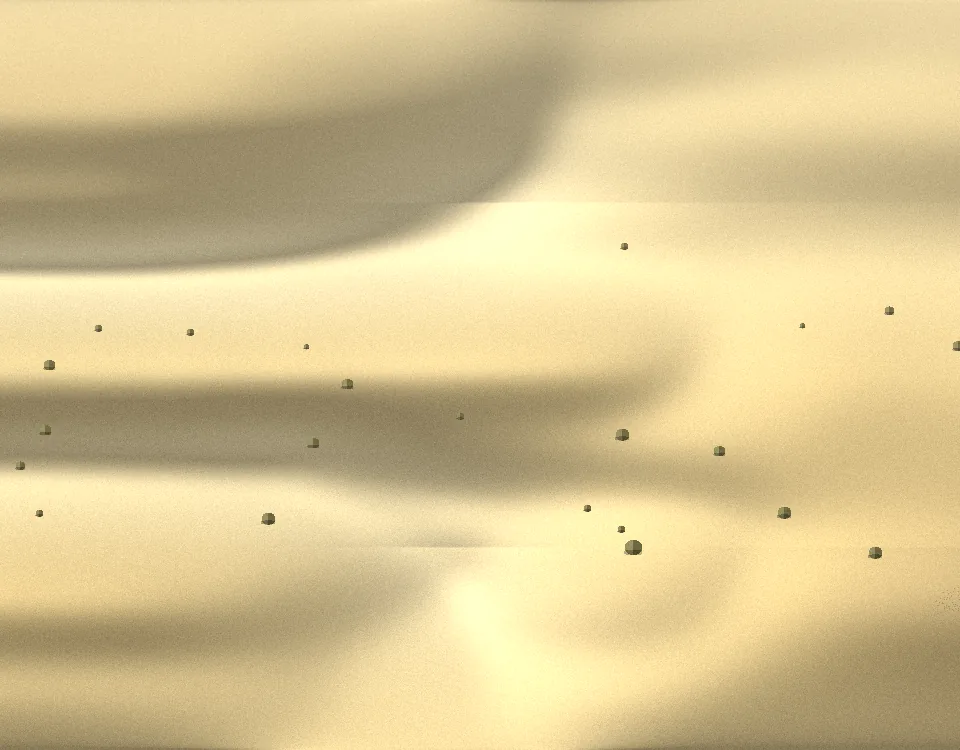
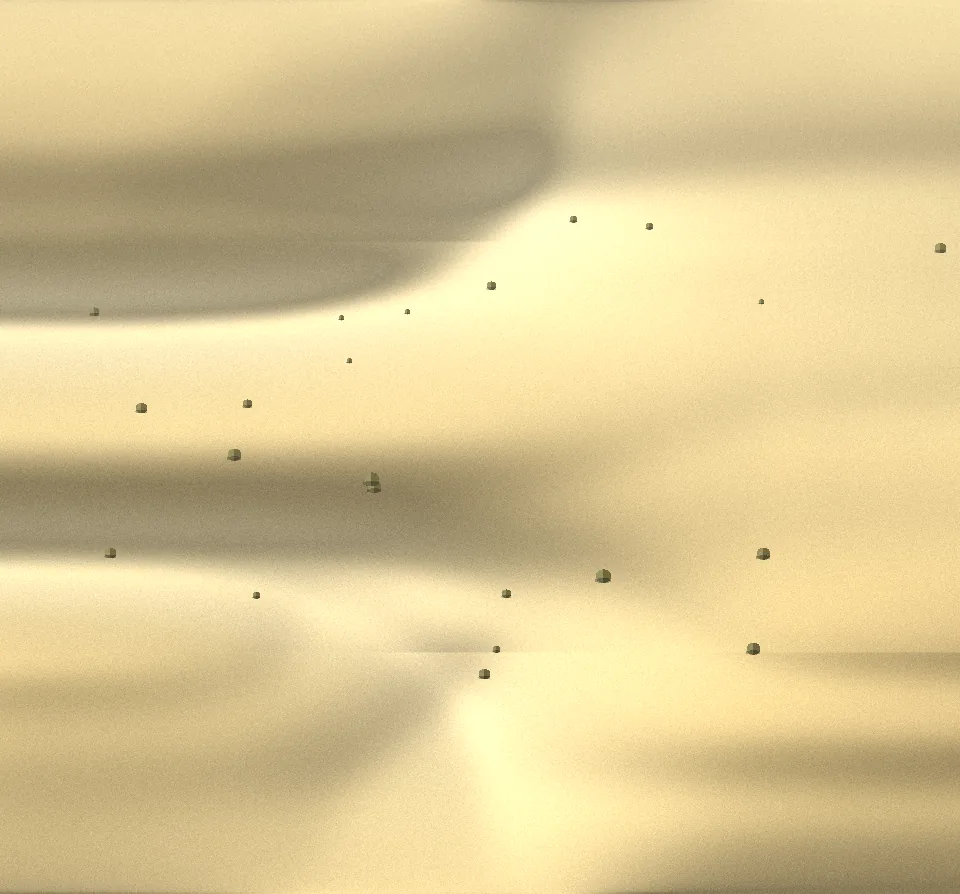
ui: 味方をローマ軍と呼び、兵の数を増やす
味方の呼び名を「我が軍」から「ローマ軍」に変える。凡例・合計・
戦場の趨勢の3か所。「我が軍」だと、東ローマや僭称帝国と戦うときに
どちらもローマ軍になって区別が付かない。

兵を小さく取って頭数を増やし、軍勢に見えるようにした。

- 歩兵 2列 → 3列。間隔も 5.4 → 3.7 に詰めた
- 騎兵 間隔 12 → 7.6。後列を半歩ずらして馬体の重なりでも数が読める
- 弓兵 1列 → 2列。間隔も 9.5 → 6.2 に詰めた

列を増やしたぶん隊の枠を広げ（SLOT_H 30 → 32）、兵数の札を下げた
（ROW_H 14 → 17）。布陣図の高さもそれに合わせて 292 → 298 にし、
地の画を同じ比率（960x894）で書き出し直した。

Claude-Session: https://claude.ai/code/session_01MtfQn3LEdmZoG6v8BdmShd

diff --git a/src/ui/components/BattleMap.tsx b/src/ui/components/BattleMap.tsx
@@ -33,15 +33,16 @@ import { ChiRho } from './UnitSprite';
  */
 
 const W = 320;
-const H = 292;
+const H = 298;
 
 /** 戦列の左端と幅。左翼・中央・右翼を等分に置く */
 const LANE_X: Record<BattleLane, number> = { left: 8, center: 112, right: 216 };
 const LANE_W = 96;
 
 /** 隊ひとつぶんの高さ。兵の列と、その札 */
-const SLOT_H = 30;
-const ROW_H = 14;
+const SLOT_H = 32;
+/** 兵の列の下に札を置く位置。列を増やしたぶん下げてある */
+const ROW_H = 17;
 
 /**
  * 陣の位置。敵は上端から下へ、我が軍は**下端から上へ**積む。
@@ -517,22 +518,22 @@ function Formation({
      * 重装歩兵。楯を並べた密集陣を2列に組み、後列を半歩ずらす。
      * 兜の房と槍の穂先まで描いて、遠目にも槍衾と分かるようにする
      */
-    const step = 5.4;
-    const n = Math.max(3, Math.floor(width / step));
-    for (let row = 0; row < 2; row++) {
+    const step = 3.7;
+    const n = Math.max(4, Math.floor(width / step));
+    for (let row = 0; row < 3; row++) {
       for (let i = 0; i < n; i++) {
-        const x = left + i * step + row * (step / 2) + 1;
-        const yy = y + row * 4.6;
+        const x = left + i * step + (row % 2) * (step / 2) + 0.6;
+        const yy = y + row * 3.4;
         pieces.push(
           <g key={`i${row}-${i}`}>
             {/* 槍。穂先を斜めに立てる */}
-            <path d={`M ${x + 3.6} ${yy + 4} l -0.5 -6`} stroke={dark} strokeWidth={0.55} />
-            <path d={`M ${x + 3.1} ${yy - 2} l 0.5 -1.2 l 0.5 1.2 z`} fill={trim} />
+            <path d={`M ${x + 2.6} ${yy + 3} l -0.4 -5`} stroke={dark} strokeWidth={0.45} />
+            <path d={`M ${x + 2.2} ${yy - 2} l 0.4 -1 l 0.4 1 z`} fill={trim} />
             {/* 兜 */}
-            <path d={`M ${x + 0.6} ${yy} q 1 -1.6 2 0`} fill={dark} />
+            <path d={`M ${x + 0.4} ${yy} q 0.75 -1.3 1.5 0`} fill={dark} />
             {/* 楯（スクトゥム）。縦長の長方形に真ん中の飾り */}
-            <rect x={x} y={yy} width={3.2} height={4.8} rx={0.7} fill={body} stroke={dark} strokeWidth={0.3} />
-            <path d={`M ${x + 1.6} ${yy + 1} l 0 2.8`} stroke={trim} strokeWidth={0.45} />
+            <rect x={x} y={yy} width={2.4} height={4.2} rx={0.6} fill={body} stroke={dark} strokeWidth={0.25} />
+            <path d={`M ${x + 1.2} ${yy + 0.9} l 0 2.4`} stroke={trim} strokeWidth={0.4} />
           </g>,
         );
       }
@@ -542,30 +543,32 @@ function Formation({
      * 騎兵。馬を横向きに描く。胴・首・頭・四肢と尾まで取り、
      * 鞍上に槍を構えた騎手を乗せる
      */
-    const step = 12;
-    const n = Math.max(2, Math.floor(width / step));
+    const step = 7.6;
+    const n = Math.max(3, Math.floor(width / step));
     for (let i = 0; i < n; i++) {
-      const x = left + i * step + 2;
+      const x = left + i * step + 1;
+      // 後列を半歩ずらして、馬体が重なっても数が読めるようにする
+      const yy = y + (i % 2) * 2.6;
       pieces.push(
         <g key={`c${i}`}>
           {/* 馬の胴 */}
           <path
-            d={`M ${x + 0.6} ${y + 6} q 0.6 -2.4 3.6 -2.4 q 3 0 3.8 2.2 l 0 1.4 q -3.6 1 -7.4 0 z`}
+            d={`M ${x + 0.4} ${yy + 6} q 0.4 -1.9 2.6 -1.9 q 2.2 0 2.8 1.7 l 0 1.1 q -2.6 0.8 -5.4 0 z`}
             fill={body}
           />
           {/* 首と頭 */}
-          <path d={`M ${x + 7.6} ${y + 5.6} l 2.1 -2.6 l 1.5 0.5 l -1.2 1.4 l -1.5 1.6 z`} fill={body} />
+          <path d={`M ${x + 5.6} ${yy + 5.7} l 1.6 -2 l 1.1 0.4 l -0.9 1.1 l -1.1 1.2 z`} fill={body} />
           {/* 四肢 */}
-          <g stroke={dark} strokeWidth={0.7} strokeLinecap="round">
-            <path d={`M ${x + 1.8} ${y + 7.4} l -0.4 2.6 M ${x + 3.6} ${y + 7.4} l 0.3 2.6`} />
-            <path d={`M ${x + 6.2} ${y + 7.4} l -0.3 2.6 M ${x + 7.6} ${y + 7.2} l 0.5 2.8`} />
+          <g stroke={dark} strokeWidth={0.55} strokeLinecap="round">
+            <path d={`M ${x + 1.3} ${yy + 7} l -0.3 2 M ${x + 2.7} ${yy + 7} l 0.2 2`} />
+            <path d={`M ${x + 4.6} ${yy + 7} l -0.2 2 M ${x + 5.6} ${yy + 6.9} l 0.4 2.1`} />
           </g>
           {/* 尾 */}
-          <path d={`M ${x + 0.6} ${y + 5.4} q -1.6 0.8 -1.8 3`} fill="none" stroke={dark} strokeWidth={0.7} />
+          <path d={`M ${x + 0.4} ${yy + 5.5} q -1.2 0.6 -1.3 2.2`} fill="none" stroke={dark} strokeWidth={0.55} />
           {/* 騎手。胴と頭、構えた槍 */}
-          <path d={`M ${x + 3.6} ${y + 4.6} l 0 -2.4`} stroke={body} strokeWidth={1.5} strokeLinecap="round" />
-          <circle cx={x + 3.6} cy={y + 1.4} r={1.1} fill={dark} />
-          <path d={`M ${x + 2} ${y + 0.4} l 6 3.4`} stroke={trim} strokeWidth={0.6} />
+          <path d={`M ${x + 2.7} ${yy + 4.8} l 0 -1.9`} stroke={body} strokeWidth={1.2} strokeLinecap="round" />
+          <circle cx={x + 2.7} cy={yy + 2.2} r={0.85} fill={dark} />
+          <path d={`M ${x + 1.4} ${yy + 1.4} l 4.6 2.6`} stroke={trim} strokeWidth={0.5} />
         </g>,
       );
     }
@@ -574,31 +577,33 @@ function Formation({
      * 弓兵。散らした散兵線。弓をはっきり C 字に描き、
      * 弦と矢を添えて「射る姿」に見せる
      */
-    const step = 9.5;
-    const n = Math.max(2, Math.floor(width / step));
-    for (let i = 0; i < n; i++) {
-      const x = left + i * step + 2;
-      const yy = y + (i % 2) * 2.4 + 1;
-      pieces.push(
-        <g key={`a${i}`}>
-          {/* 弓と弦 */}
-          <path d={`M ${x + 4.6} ${yy - 0.6} q 2.6 3 0 6`} fill="none" stroke={trim} strokeWidth={0.75} />
-          <path d={`M ${x + 4.6} ${yy - 0.6} l 0 6`} stroke={trim} strokeWidth={0.35} />
-          {/* 矢 */}
-          <path d={`M ${x + 2.6} ${yy + 2.4} l 3.6 0`} stroke={dark} strokeWidth={0.45} />
-          {/* 射手。頭・胴・踏み出した脚 */}
-          <circle cx={x + 2} cy={yy} r={1.15} fill={dark} />
-          <path d={`M ${x + 2} ${yy + 1.2} l 0 3`} stroke={body} strokeWidth={1.6} strokeLinecap="round" />
-          <path d={`M ${x + 2} ${yy + 4.2} l -1.2 2 M ${x + 2} ${yy + 4.2} l 1.4 1.8`} stroke={dark} strokeWidth={0.6} />
-        </g>,
-      );
+    const step = 6.2;
+    const n = Math.max(3, Math.floor(width / step));
+    for (let row = 0; row < 2; row++) {
+      for (let i = 0; i < n; i++) {
+        const x = left + i * step + (row % 2) * (step / 2) + 0.8;
+        const yy = y + row * 4.6 + 1;
+        pieces.push(
+          <g key={`a${row}-${i}`}>
+            {/* 弓と弦 */}
+            <path d={`M ${x + 3.4} ${yy - 0.4} q 2 2.3 0 4.6`} fill="none" stroke={trim} strokeWidth={0.6} />
+            <path d={`M ${x + 3.4} ${yy - 0.4} l 0 4.6`} stroke={trim} strokeWidth={0.3} />
+            {/* 矢 */}
+            <path d={`M ${x + 1.9} ${yy + 1.9} l 2.8 0`} stroke={dark} strokeWidth={0.38} />
+            {/* 射手。頭・胴・踏み出した脚 */}
+            <circle cx={x + 1.5} cy={yy} r={0.9} fill={dark} />
+            <path d={`M ${x + 1.5} ${yy + 0.9} l 0 2.3`} stroke={body} strokeWidth={1.25} strokeLinecap="round" />
+            <path d={`M ${x + 1.5} ${yy + 3.2} l -0.9 1.5 M ${x + 1.5} ${yy + 3.2} l 1.1 1.4`} stroke={dark} strokeWidth={0.5} />
+          </g>,
+        );
+      }
     }
   }
 
   return (
     <g opacity={faded ? 0.5 : 1}>
       {/* 足元の影。地面から浮いて見せない */}
-      <ellipse cx={cx} cy={y + 11} rx={width / 2} ry={2.2} fill="rgba(35,25,10,0.24)" />
+      <ellipse cx={cx} cy={y + 12} rx={width / 2} ry={2.2} fill="rgba(35,25,10,0.24)" />
       {pieces}
     </g>
   );

diff --git a/src/ui/components/BattleScreen.tsx b/src/ui/components/BattleScreen.tsx
@@ -139,13 +139,13 @@ export function BattleScreen({
           <div className="mt-1 text-[10px] flex justify-between" style={{ color: 'var(--ink-soft)' }}>
             <span className="flex items-center gap-1">
               <i className="inline-block w-2 h-2 rounded-sm" style={{ backgroundColor: '#2c4454' }} />
-              我が軍
+              ローマ軍
               <i className="inline-block w-2 h-2 rounded-sm ml-1" style={{ backgroundColor: '#7c2029' }} />
               敵軍
               <span className="ml-1">／列の幅＝兵力</span>
             </span>
             <span>
-              我が軍{' '}
+              ローマ軍{' '}
               {formatTroops(
                 field.phase === 'deploy'
                   ? field.ourStartStrength
@@ -272,7 +272,7 @@ export function BattleScreen({
           <section className="roman-panel rounded-sm px-3 py-2">
             <h2 className="roman-heading text-sm">戦場の趨勢</h2>
             <p className="text-xs mt-1" style={{ color: 'var(--ink-soft)' }}>
-              戦列での優劣は、この会戦の我が軍の戦力に{' '}
+              戦列での優劣は、この会戦のローマ軍の戦力に{' '}
               <span style={{ color: 'var(--purple)', fontWeight: 600 }}>
                 ×{battlefieldTactics(field).toFixed(2)}
               </span>{' '}

diff --git a/scripts/generate-terrain.py b/scripts/generate-terrain.py
@@ -1,7 +1,7 @@
 #!/usr/bin/env python3
 """戦場の地の画を手続き的に描き起こす。
 
-`src/ui/public/terrain/` に 960x750 の WebP を5枚書き出す。
+`src/ui/public/terrain/` に 960x894 の WebP を5枚書き出す（布陣図と同じ比率）。
 `src/ui/terrainArt.json` に登録すると布陣図の地がその画になる。
 
 **絵描きの代わりではない。** 標高場に陰影を付けて色を乗せた「地図に近い地」で、
@@ -24,7 +24,7 @@ import os
 import numpy as np
 from PIL import Image, ImageFilter
 
-W, H = 960, 750
+W, H = 960, 894
 OUT = os.path.join(os.path.dirname(__file__), "..", "src", "ui", "public", "terrain")
 
 # 上端と下端は隊と兵数の札が乗る帯。起伏を抑えて読みやすくする

diff --git a/CLAUDE.md b/CLAUDE.md
@@ -496,11 +496,17 @@ UI の候補もそこから引く。
 
 **兵は兵科ごとの姿で描く。** 一目でどの兵科か分かることを優先する。
 
-- **歩兵** — 楯（スクトゥム）を並べた密集陣。2列に組み、兜と槍の穂先を立てる
-- **騎兵** — 馬を横向きに。胴・首・頭・四肢と尾を取り、鞍上に槍を構えた騎手を乗せる
-- **弓兵** — 散らした散兵線。弓を C 字に、弦と矢を添えて射る姿にする
+- **歩兵** — 楯（スクトゥム）を並べた密集陣。**3列**に組み、兜と槍の穂先を立てる
+- **騎兵** — 馬を横向きに。胴・首・頭・四肢と尾を取り、鞍上に槍を構えた騎手を乗せる。
+  後列を半歩ずらし、馬体が重なっても数が読めるようにする
+- **弓兵** — **2列**の散兵線。弓を C 字に、弦と矢を添えて射る姿にする
 
 数万人の兵を1人ずつは描けないので、**列の幅で兵力**を表す。
+1人あたりを小さく取って**数を多く**並べるほうが軍勢に見えるので、
+兵の大きさより頭数を優先する。列を増やしたぶん兵数の札は下げてある。
+
+味方は**ローマ軍**と呼ぶ。「我が軍」では、東ローマや僭称帝国と
+戦うときにどちらもローマ軍になって区別が付かない。
 
 **本陣にはラバルムを立てる。** 指揮官の控える位置を図の下端に取り、
 竿頭のキリストのモノグラム（☧）と帝室紫の布、天幕、率いる者の名を並べる。

diff --git a/src/ui/public/terrain/README.md b/src/ui/public/terrain/README.md
@@ -24,7 +24,7 @@
 
 | 項目 | 値 |
 |---|---|
-| 寸法 | **960 × 750 px**（比率 320:250。布陣図の viewBox と同じ） |
+| 寸法 | **960 × 894 px**（比率 320:298。布陣図の viewBox と同じ） |
 | 形式 | WebP（品質 80〜85 目安） |
 | 1枚あたり | 120 KB 以内が望ましい |
 | 視点 | やや高い位置からの俯瞰。地平線は**入れない**（空を映さない） |
@@ -41,7 +41,7 @@
 |---|---|---|
 | 上（奥） | 上から約 1/4 | 敵の隊と兵数の札 |
 | 中（戦場） | 中央 約 1/2 | 命令の矢が横切る |
-| 下（手前） | 下から約 1/4 | 我が軍の隊と兵数の札 |
+| 下（手前） | 下から約 1/4 | ローマ軍の隊と兵数の札 |
 
 - **上下の帯は簡素に。** ここに岩や木を密に置くと、その上に乗る
   兵と札が読めなくなる。UI 側でも上下だけ薄く落としているが、
@@ -68,7 +68,7 @@
 > **人物・兵士・馬・旗・天幕は一切描かない。** 空と地平線を入れず、
 > 地面だけで画面を満たす。左上からの午後の斜光。落ち着いた土色の油彩。
 > 画面上端と下端の帯は開けた平地にして、中央に地形の見せ場を置く。
-> 960×750」
+> 960×894」
 >
 > - 平原: 「収穫前の麦畑と草地。畦道が横切る。点在する低木」
 > - 丘陵: 「連なるなだらかな丘。稜線に陽が当たり、その下に陰が落ちる。露岩と灌木」
